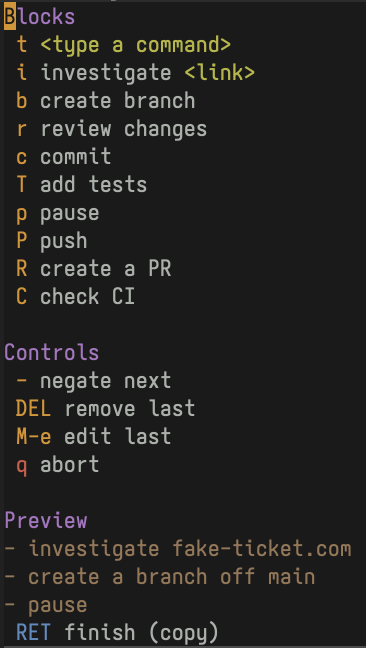
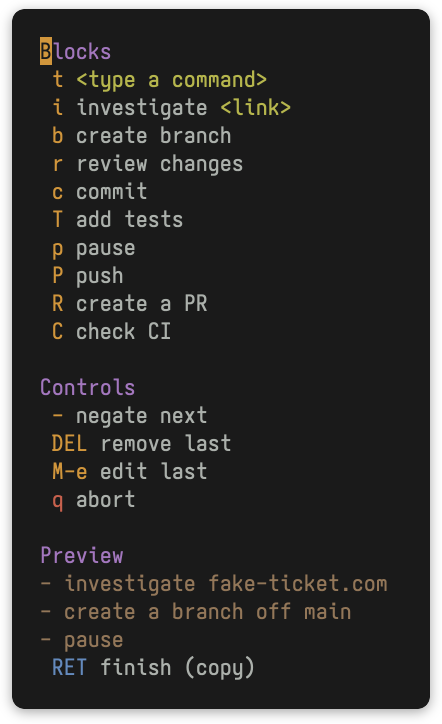
docs: prettify README screenshot

Changed region(s): [[0.0, 0.0, 1.0, 1.0]]

diff --git a/README.md b/README.md
@@ -6,6 +6,8 @@
 Compose LLM prompts from building blocks, using a convenient transient menu interface!
 
 *The opposite of 'impromptu': composed, not off-the-cuff.*
+
+<img src="screenshot.png" alt="promptu transient menu showing blocks, controls, and a live preview" width="365">
 </div>
 
 ## Usage
@@ -13,8 +15,6 @@ Compose LLM prompts from building blocks, using a convenient transient menu inte
 ```
 M-x promptu
 ```
-
-<img src="screenshot.png" alt="promptu transient menu showing blocks, controls, and a live preview" width="300">
 
 Pick building blocks one at a time. The menu stays open and shows a live preview
 as the prompt is built.
